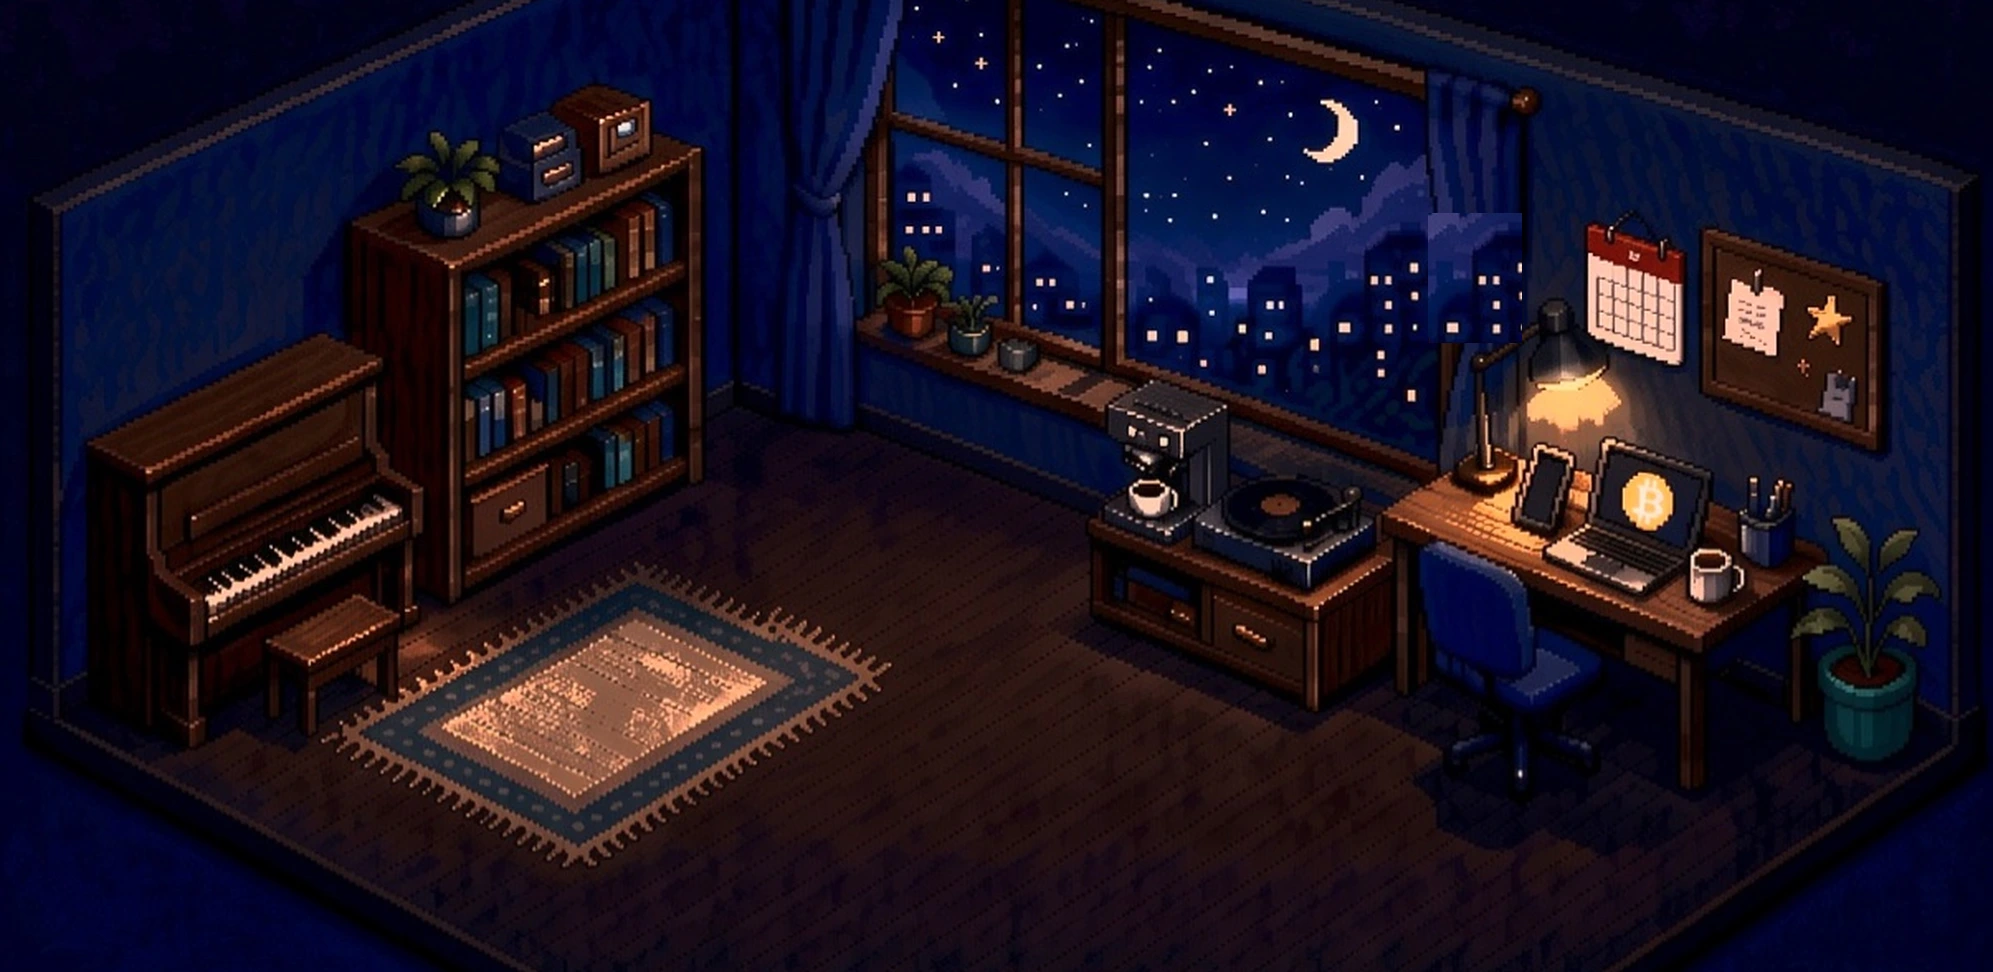
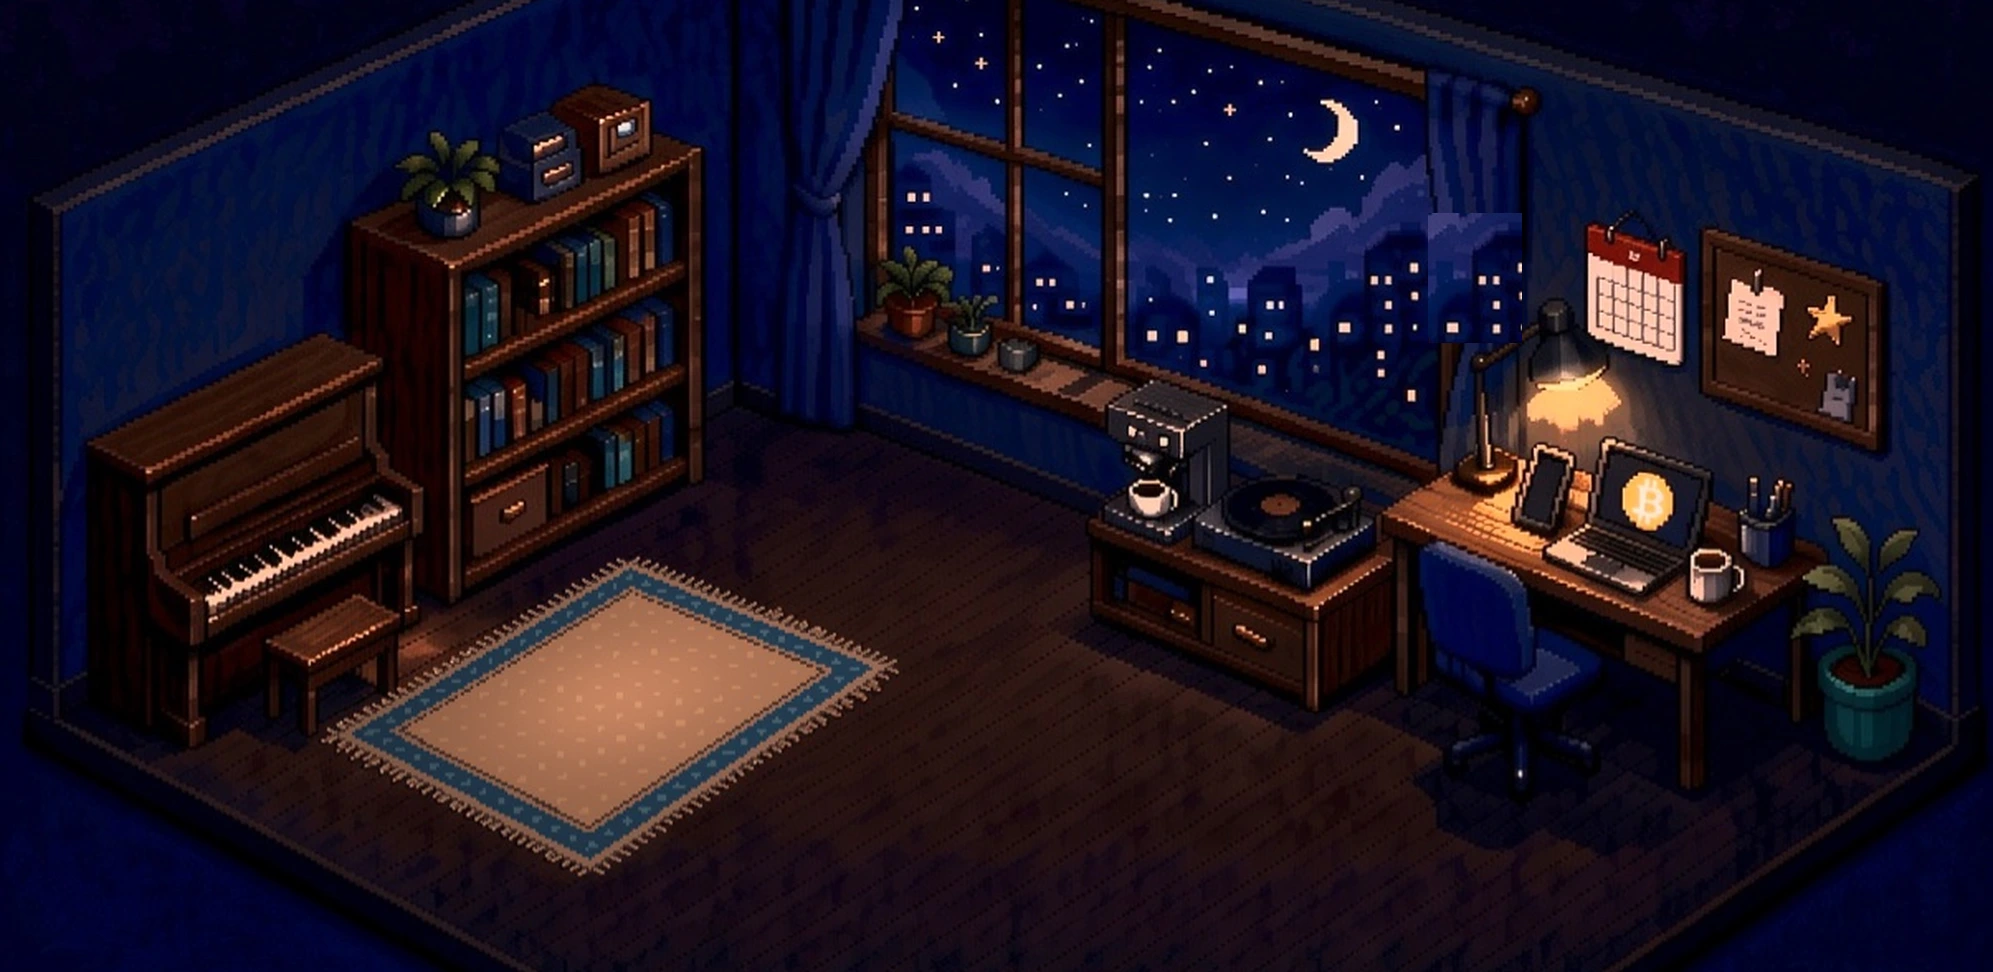
去掉黑胶动画，地毯换干净新图

Changed region(s): [[0.1555, 0.5556, 0.4666, 0.8951]]

diff --git a/index.html b/index.html
@@ -20,10 +20,7 @@
   #infobar{position:fixed;left:0;right:0;bottom:0;height:48px;z-index:50;background:#1a1a2e;color:#ccc;display:flex;align-items:center;justify-content:center;font-size:13px;padding:0 12px;text-align:center}
   #musicNote{animation:floatUp 2.6s ease-in-out infinite}
   @keyframes floatUp{0%,100%{transform:translateY(0);opacity:.9}50%{transform:translateY(-14px);opacity:.5}}
-  #vinyl{transform-box:fill-box;transform-origin:center}
-  #vinyl.spin{animation:spin 1.8s linear infinite}
-  @keyframes spin{to{transform:rotate(360deg)}}
-  .steamP{animation:steamUp 2.2s ease-in-out infinite}
+        .steamP{animation:steamUp 2.2s ease-in-out infinite}
   @keyframes steamUp{0%{transform:translateY(0);opacity:0}30%{opacity:.7}100%{transform:translateY(-26px);opacity:0}}
 </style>
 </head>
@@ -31,7 +28,7 @@
 <div id="stage">
 <svg id="room" viewBox="0 0 1993 972" preserveAspectRatio="xMidYMid meet">
   <image href="assets/plate-night.webp" x="0" y="0" width="1993" height="972"/>
-  <g id="vinyl" opacity="0"><circle cx="1260" cy="530" r="52" fill="#0a0a0a"/><circle cx="1260" cy="530" r="14" fill="#c97a2a"/><circle cx="1260" cy="530" r="4" fill="#f7efdc"/></g>
+  
   <g id="steamG">
     <path class="steamP" d="M1695,556 q7,-11 0,-22 q-7,-11 0,-22" stroke="#fff" stroke-width="3.5" fill="none" opacity="0.65"/>
     <path class="steamP" d="M1707,558 q7,-11 0,-22 q-7,-11 0,-22" stroke="#fff" stroke-width="3.5" fill="none" opacity="0.65" style="animation-delay:.7s"/>
@@ -74,7 +71,7 @@ $('panel').addEventListener('click',e=>{if(e.target.id==='panel')$('panel').clas
 const TRIS=[['piano',240,380],['record',1260,445],['desk',1630,420],['cal',1475,165],['board',1810,250],['window',1110,10]];
 (function(){const g=$('tris');TRIS.forEach(([id,x,y])=>{el('polygon',{points:`${x},${y} ${x-15},${y-22} ${x+15},${y-22}`,fill:'#3d3d4f',stroke:'#14141f','stroke-width':3,class:'tri'},g).dataset.id=id})})();
 const bgm=$('bgm');let playing=false;
-function toggleMusic(){playing=!playing;if(playing){bgm.play().catch(()=>{});$('vinyl').setAttribute('opacity',1);$('vinyl').classList.add('spin');$('musicNote').setAttribute('opacity',1);say('Rae','♪ 萨蒂《Gymnopédie No.1》')}else{bgm.pause();$('vinyl').classList.remove('spin');$('vinyl').setAttribute('opacity',0);$('musicNote').setAttribute('opacity',0);say('Rae','音乐停了。')}}
+function toggleMusic(){playing=!playing;if(playing){bgm.play().catch(()=>{});$('musicNote').setAttribute('opacity',1);say('Rae','♪ 萨蒂《Gymnopédie No.1》')}else{bgm.pause();$('musicNote').setAttribute('opacity',0);say('Rae','音乐停了。')}}
 let weather={temp:19,desc:'多云',hi:22,lo:15,hum:80,ok:false};
 const WMO={0:'晴',1:'晴间多云',2:'多云',3:'阴',45:'雾',48:'雾',51:'毛毛雨',53:'毛毛雨',55:'毛毛雨',61:'小雨',63:'中雨',65:'大雨',71:'小雪',73:'中雪',75:'大雪',80:'阵雨',81:'阵雨',82:'暴雨',95:'雷阵雨',96:'雷阵雨',99:'雷阵雨'};
 fetch('https://api.open-meteo.com/v1/forecast?latitude=30.2741&longitude=120.1551&current=temperature_2m,relative_humidity_2m,weather_code&daily=temperature_2m_max,temperature_2m_min&timezone=Asia%2FShanghai').then(r=>r.json()).then(d=>{const c=d.current.weather_code;weather={temp:Math.round(d.current.temperature_2m),desc:WMO[c]||'多云',hi:Math.round(d.daily.temperature_2m_max[0]),lo:Math.round(d.daily.temperature_2m_min[0]),hum:Math.round(d.current.relative_humidity_2m),ok:true}}).catch(()=>{});
